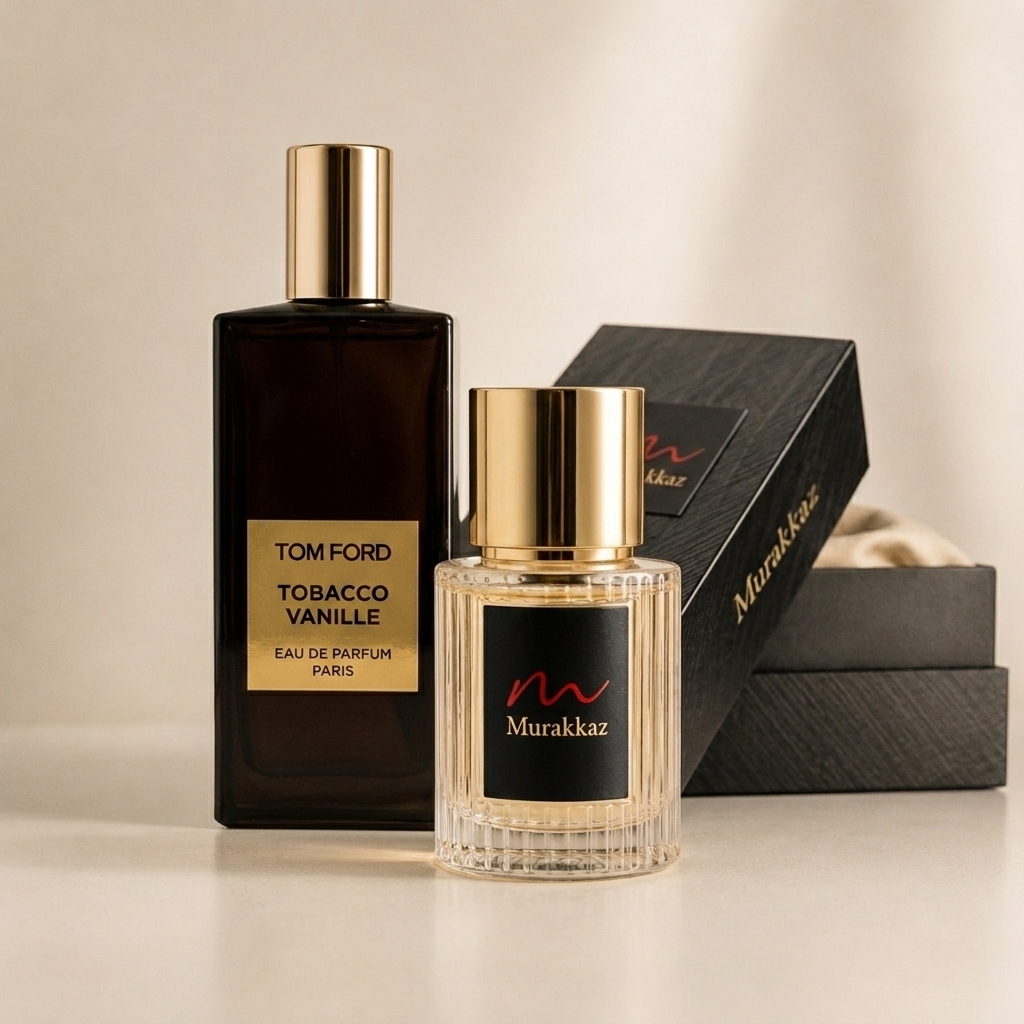
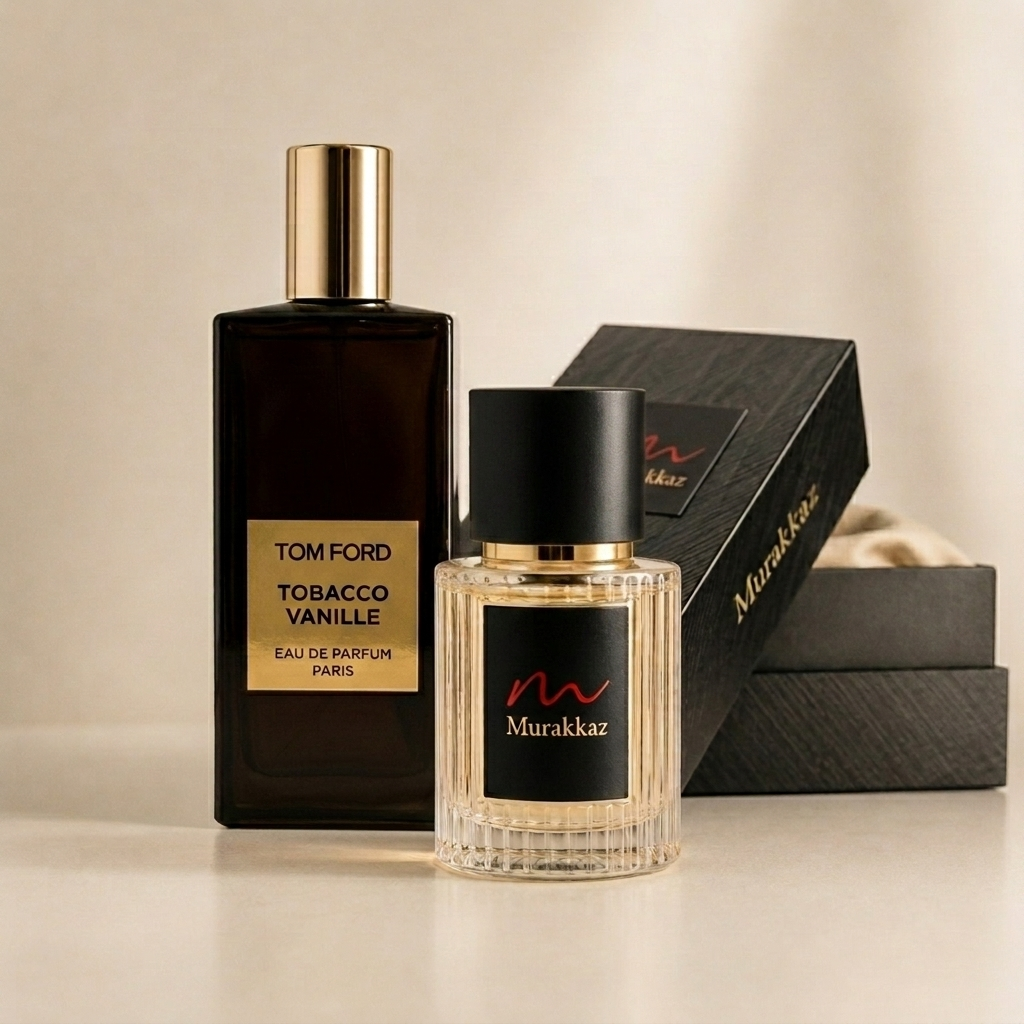
fix: update Tobacco Vanille bottle photo with authentic matte black cap and gold ring

Changed region(s): [[0.4375, 0.375, 0.6562, 0.5625]]

diff --git a/App/src/app/data/products.ts b/App/src/app/data/products.ts
@@ -125,7 +125,7 @@ export const luxuryProducts: Product[] = [
     "priceVal": 300,
     "originalPriceVal": 400,
     "volume": "6ml - 50ml",
-    "image": "/images/products/tobacco_vanille_v2.jpg",
+    "image": "/images/products/tobacco_vanille_v3.jpg",
     "family": "GOURMAND",
     "gender": "UNISEX",
     "occasion": "Winter & Evening",
@@ -1988,7 +1988,7 @@ export async function fetchLiveProducts(): Promise<Product[]> {
             priceVal: minPrice,
             originalPriceVal: Math.round(minPrice * 1.25),
             volume: p.volume || "6ml - 50ml",
-            image: (p.image && p.image.includes("irish_leather")) ? "/images/products/irish_leather_v2.jpg" : (p.image && p.image.includes("tobacco_vanille")) ? "/images/products/tobacco_vanille_v2.jpg" : (p.image || "/images/products/baccarat_rouge.jpg"),
+            image: (p.image && p.image.includes("irish_leather")) ? "/images/products/irish_leather_v2.jpg" : (p.image && p.image.includes("tobacco_vanille")) ? "/images/products/tobacco_vanille_v3.jpg" : (p.image || "/images/products/baccarat_rouge.jpg"),
             family: (p.family || "FLORAL").toUpperCase(),
             gender: (p.gender || "UNISEX").toUpperCase(),
             occasion: p.occasion || "Versatile",
